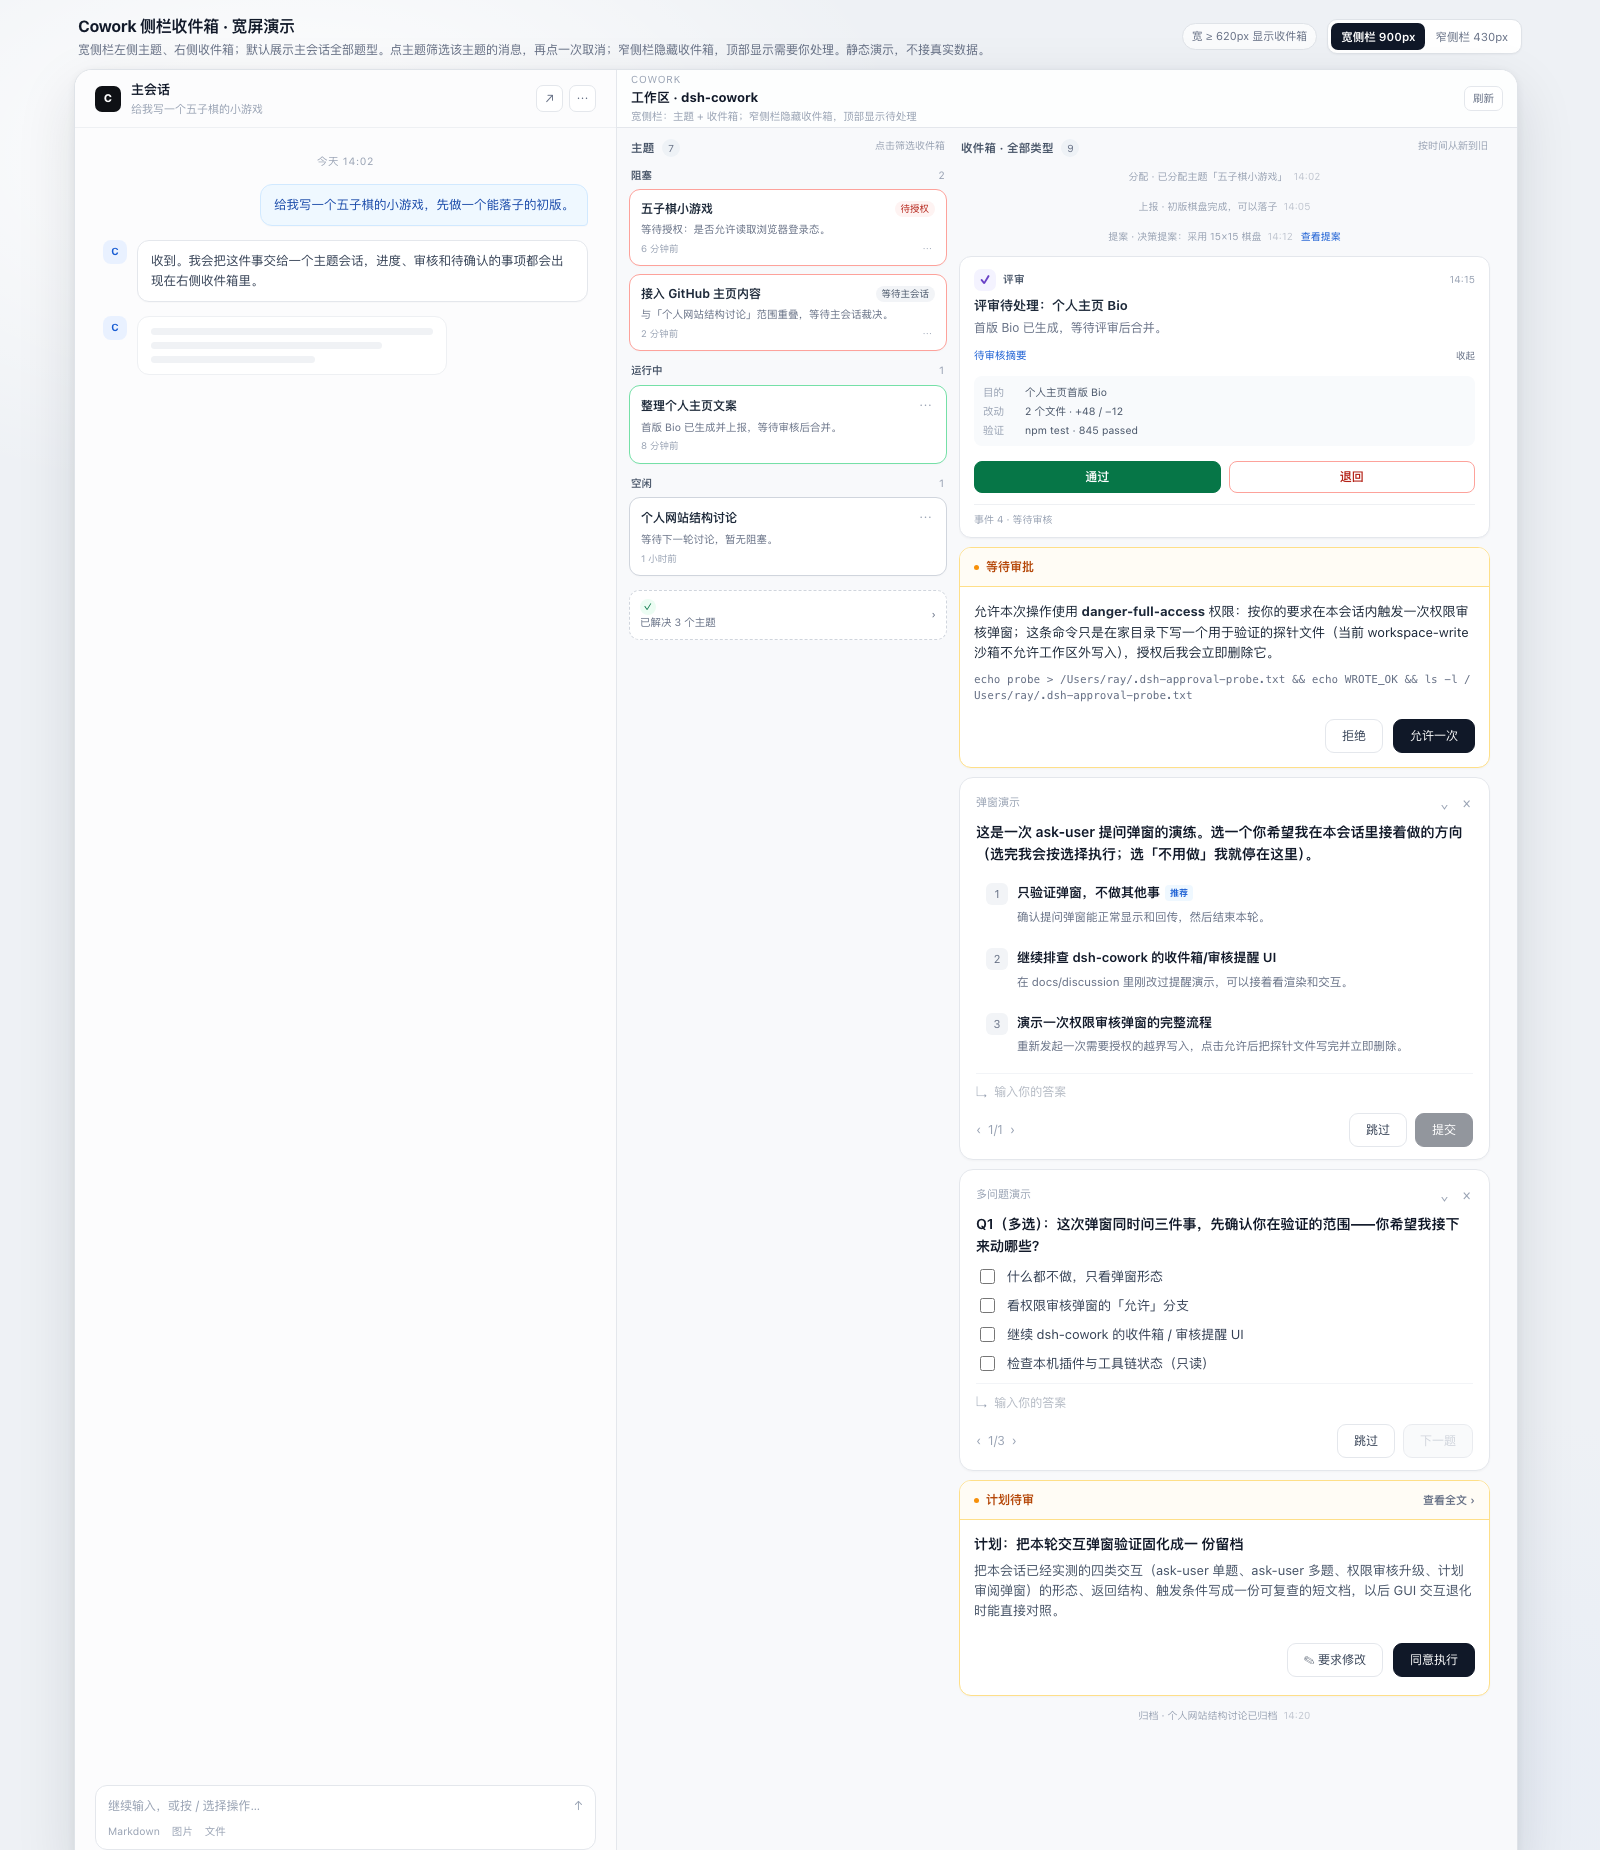
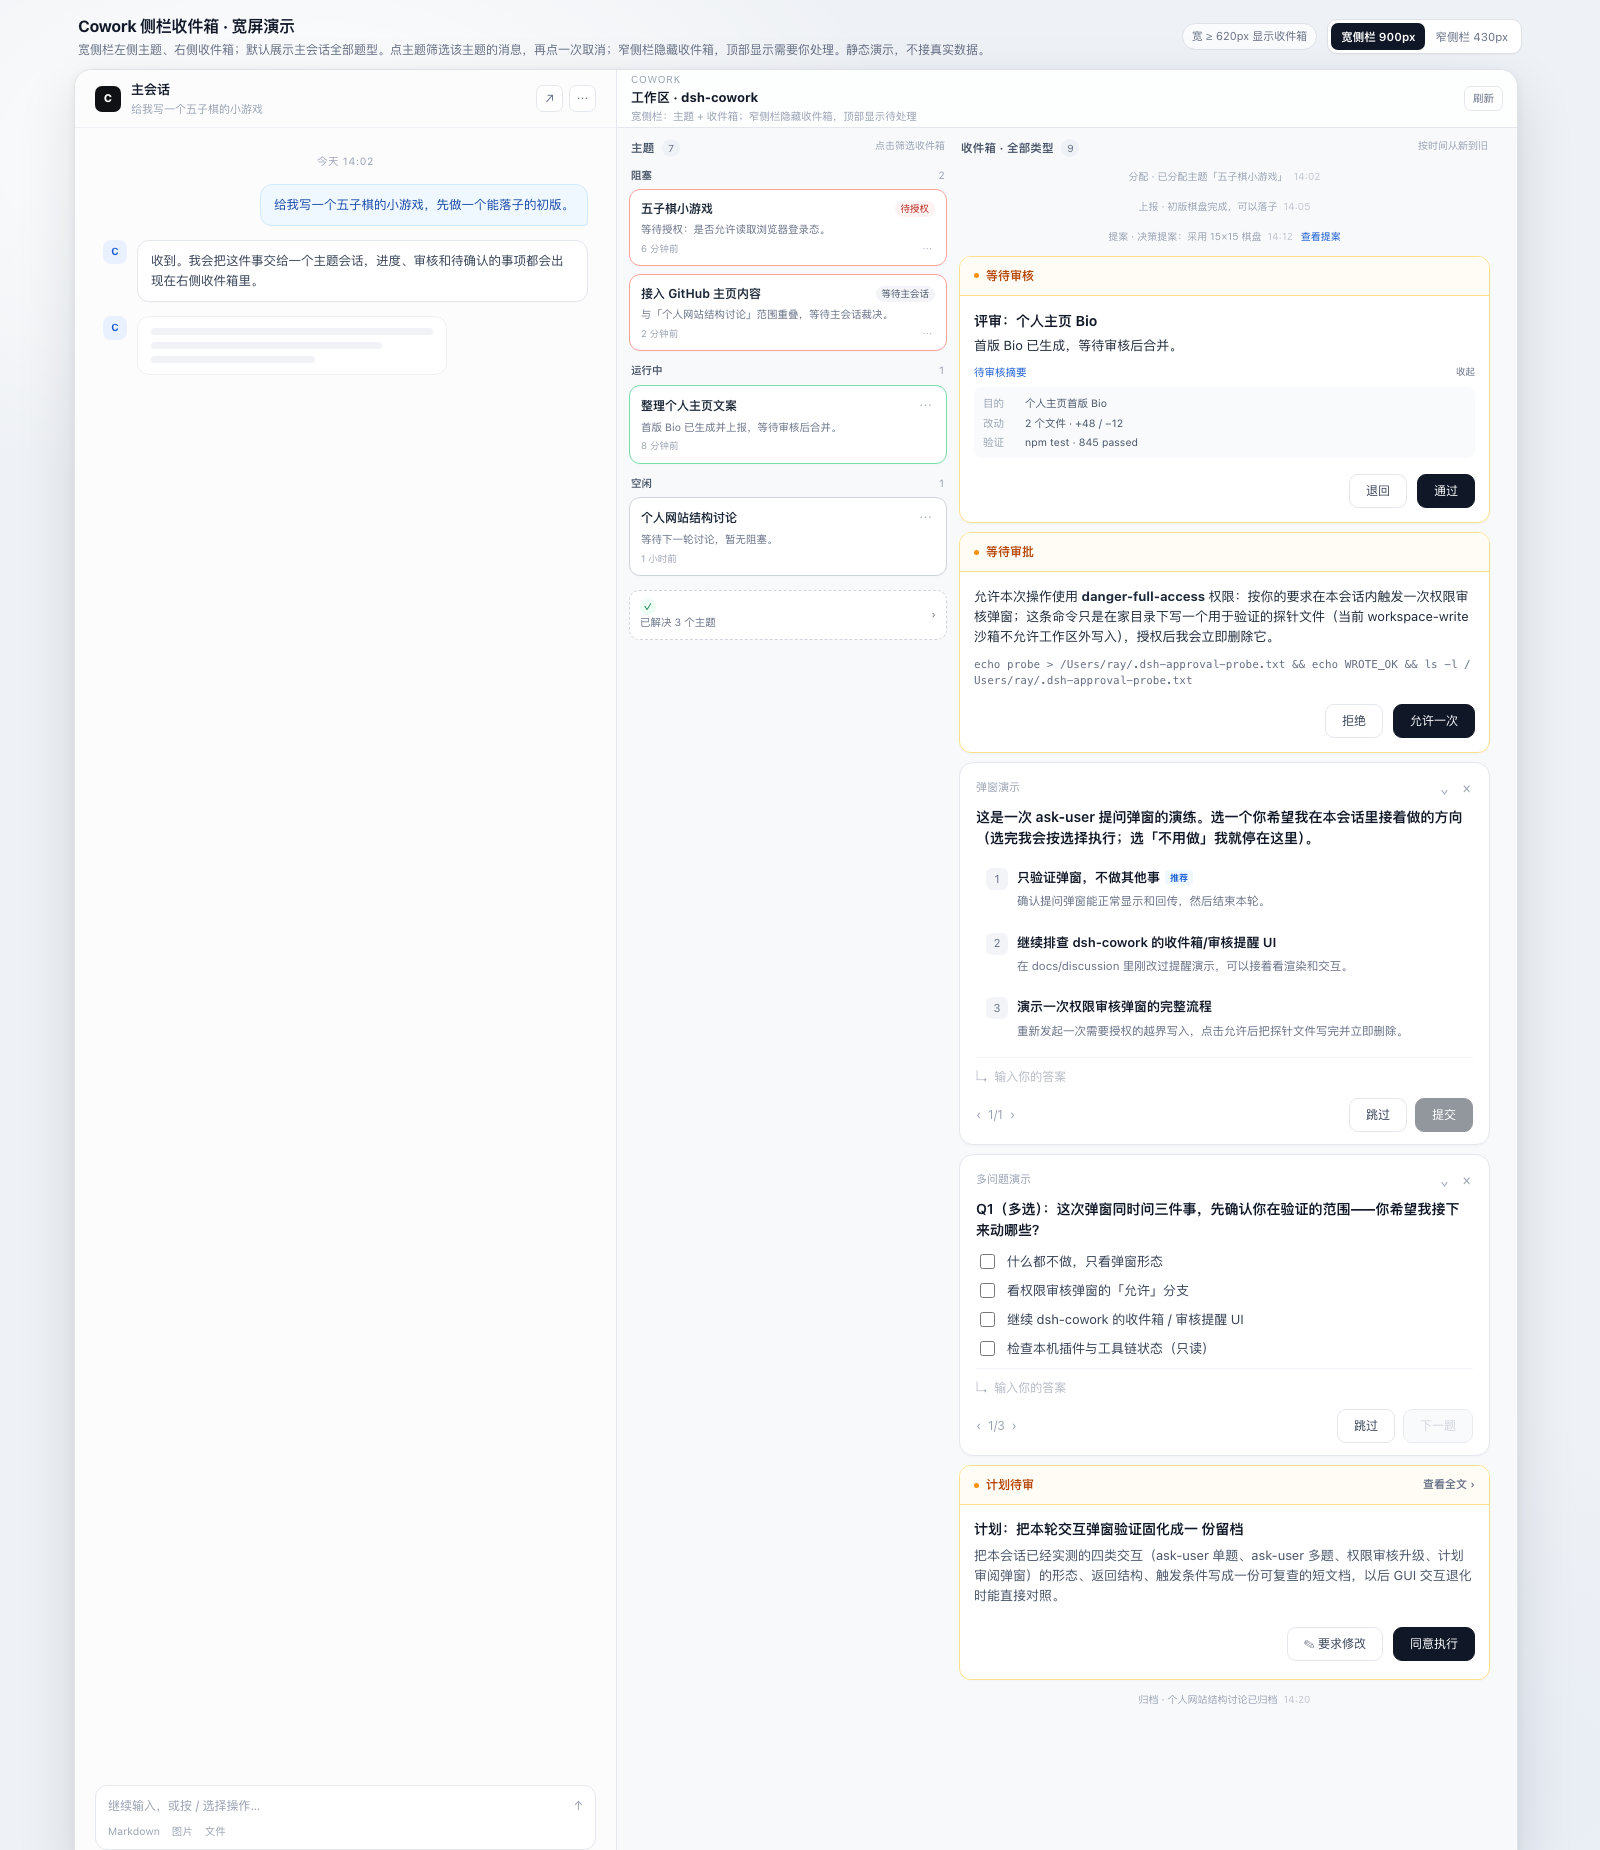
docs(topic-reminders): 评审卡改为权限审批样式
评审卡使用与权限审批一致的琥珀标题、正文和退回/通过按钮；保留待审核摘要折叠。更新默认与展开截图。

diff --git a/docs/discussion/topic-reminder-demo.html b/docs/discussion/topic-reminder-demo.html
@@ -590,6 +590,7 @@
     font-weight: 700;
     letter-spacing: .04em;
   }
+  .approval-body .card-expand { margin-top: 7px; }
   .card-expand {
     display: flex;
     align-items: center;
@@ -720,6 +721,7 @@
   }
   .approval-body, .plan-body { padding: 14px; }
   .approval-body p { margin: 0; color: #1d2939; font-size: 13px; line-height: 1.55; }
+  .review-title { margin-bottom: 4px; color: #101828; font-size: 14px; font-weight: 650; }
   .approval-body strong { font-weight: 700; }
   .approval-body code {
     display: block;
@@ -1058,27 +1060,22 @@
               <button type="button" class="note-link" data-placeholder="工作项页面尚未实现">查看提案</button>
             </div>
 
-            <article class="reminder-card" data-kind="review" data-topic="bio" data-topic-name="整理个人主页文案" data-actionable="true">
-              <div class="reminder-top">
-                <div class="reminder-type">
-                  <span class="type-icon" aria-hidden="true">✓</span>
-                  <span class="type-label">评审</span>
+            <article class="approval-card" data-kind="review" data-topic="bio" data-topic-name="整理个人主页文案" data-actionable="true">
+              <div class="approval-head"><span class="approval-label"><span class="amber-dot"></span>等待审核</span></div>
+              <div class="approval-body">
+                <div class="review-title">评审：个人主页 Bio</div>
+                <p>首版 Bio 已生成，等待审核后合并。</p>
+                <button type="button" class="card-expand" data-expand="review-details" aria-expanded="false">待审核摘要 <span>展开</span></button>
+                <div class="card-detail" id="review-details" hidden>
+                  <div class="detail-line"><span>目的</span><span>个人主页首版 Bio</span></div>
+                  <div class="detail-line"><span>改动</span><span>2 个文件 · +48 / −12</span></div>
+                  <div class="detail-line"><span>验证</span><span>npm test · 845 passed</span></div>
                 </div>
-                <span class="reminder-time">14:15</span>
               </div>
-              <div class="reminder-title">评审待处理：个人主页 Bio</div>
-              <div class="reminder-summary">首版 Bio 已生成，等待评审后合并。</div>
-              <button type="button" class="card-expand" data-expand="review-details" aria-expanded="false">待审核摘要 <span>展开</span></button>
-              <div class="card-detail" id="review-details" hidden>
-                <div class="detail-line"><span>目的</span><span>个人主页首版 Bio</span></div>
-                <div class="detail-line"><span>改动</span><span>2 个文件 · +48 / −12</span></div>
-                <div class="detail-line"><span>验证</span><span>npm test · 845 passed</span></div>
+              <div class="approval-actions">
+                <button type="button" class="btn-ghost" data-action="return">退回</button>
+                <button type="button" class="btn-dark" data-action="pass">通过</button>
               </div>
-              <div class="review-actions">
-                <button type="button" class="review-btn pass" data-action="pass">通过</button>
-                <button type="button" class="review-btn return" data-action="return">退回</button>
-              </div>
-              <div class="reminder-foot"><span>事件 4 · 等待审核</span></div>
               <span class="card-status">已通过</span>
             </article>
 
